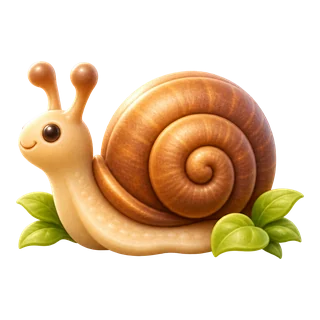
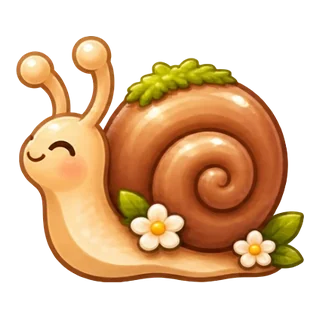
Nouveaux papillon, escargot, pièce, étoile et goutte (0.26.1)
Claude-Session: https://claude.ai/code/session_018D5HKJWKwN88xpAGuhHMQJ

diff --git a/index.html b/index.html
@@ -6,13 +6,13 @@
   <title>Potager idle</title>
   <meta name="description" content="Un petit jeu idle de potager : plante, arrose, récolte, cuisine et découvre des variétés hybrides.">
   <meta name="theme-color" content="#f2f9e6" id="theme-color">
-  <link rel="manifest" href="manifest.webmanifest?v=119">
+  <link rel="manifest" href="manifest.webmanifest?v=120">
   <link rel="icon" href="icons/favicon-32.png" sizes="32x32" type="image/png">
   <link rel="icon" href="icons/favicon-64.png" sizes="64x64" type="image/png">
   <link rel="icon" href="icons/icon-192.png" sizes="192x192" type="image/png">
   <link rel="preload" href="fonts/nunito-latin.woff2" as="font" type="font/woff2" crossorigin>
   <link rel="preload" href="fonts/fredoka-latin.woff2" as="font" type="font/woff2" crossorigin>
-  <link rel="stylesheet" href="css/style.css?v=119">
+  <link rel="stylesheet" href="css/style.css?v=120">
 </head>
 <body>
 <div id="app">
@@ -41,10 +41,10 @@
 <div id="fx"></div>
 <div id="toasts" aria-live="polite"></div>
 
-<script src="js/data.js?v=119"></script>
-<script src="assets/img/manifest.js?v=119"></script>
-<script src="js/art.js?v=119"></script>
-<script src="js/achievements.js?v=119"></script>
-<script src="js/game.js?v=119"></script>
+<script src="js/data.js?v=120"></script>
+<script src="assets/img/manifest.js?v=120"></script>
+<script src="js/art.js?v=120"></script>
+<script src="js/achievements.js?v=120"></script>
+<script src="js/game.js?v=120"></script>
 </body>
 </html>

diff --git a/js/art.js b/js/art.js
@@ -288,8 +288,8 @@ function avatar(v) {
   return `<svg viewBox="0 0 46 46" aria-hidden="true"><circle cx="23" cy="23" r="23" fill="${v.color}" opacity=".22"/><circle cx="12" cy="13" r="6" fill="${vol(v.ear)}"/><circle cx="34" cy="13" r="6" fill="${vol(v.ear)}"/><circle cx="23" cy="25" r="15" fill="${vol(v.color)}"/><ellipse cx="23" cy="31" rx="7" ry="5" fill="#fff" opacity=".55"/><circle cx="23" cy="29" r="2.2" fill="${INK}"/>${face(23, 23, 3.2)}</svg>`;
 }
 
-const DROP = `<svg viewBox="0 0 16 16"><path d="M8 1.5C6 5 3.5 7.5 3.5 10a4.5 4.5 0 0 0 9 0C12.5 7.5 10 5 8 1.5z" fill="${vol("#3f9bdc")}"/><ellipse cx="6.4" cy="9.6" rx="1" ry="1.6" fill="#fff" opacity=".6"/></svg>`;
-const STAR = `<svg viewBox="0 0 16 16"><path d="M8 1.5l1.9 4.1 4.5.5-3.4 3 1 4.4L8 11.2 4 13.5l1-4.4-3.4-3 4.5-.5z" fill="${vol("#f4c03e")}"/></svg>`;
+const DROP = `<img class="ico-img" src="assets/img/ui-drop.webp" alt="">`;
+const STAR = `<img class="ico-img" src="assets/img/ui-star.webp" alt="">`;
 const WEED = `<g>${leaf(17, 61, -20, 15, 3, "#6e9a3a")}${leaf(21, 61, 8, 18, 3.2, "#5d8a30")}${leaf(25, 61, 30, 13, 2.8, "#7aa845")}` +
   `<ellipse cx="45" cy="56" rx="10" ry="4.5" fill="${vol("#d9bf94")}"/><circle cx="47" cy="50.5" r="6.5" fill="${vol("#b07a48")}"/>` +
   `<path d="M47 50.5m-3 0a3 3 0 1 0 3-3" stroke="#7d5230" stroke-width="1.3" fill="none"/><path d="M37 53l-3-5M39 52l-1-6" stroke="#c9a77a" stroke-width="1.5" stroke-linecap="round"/></g>`;

diff --git a/css/style.css b/css/style.css
@@ -638,3 +638,6 @@ button.herb:active { transform: scale(.97); }
 .ach-toast { display: flex; align-items: center; gap: 10px; }
 .ach-toast svg { width: 28px; height: 28px; color: #f4c03e; flex: none; }
 .ach-rew { display: block !important; line-height: 1.5; } .ach-rew .coin { margin-right: 2px; }
+/* Icônes illustrées : pièce, goutte, étoile */
+.coin { background: url("../assets/img/ui-coin.webp") center / contain no-repeat !important; box-shadow: none !important; border-radius: 0 !important; width: 1.2em; height: 1.2em; }
+.ico-img { width: 100%; height: 100%; object-fit: contain; display: block; }

diff --git a/js/game.js b/js/game.js
@@ -1,7 +1,7 @@
 "use strict";
 /* Numéro de version affiché dans les Paramètres.
    À chaque mise à jour : changer APP_VERSION, le ?v= dans index.html et VERSION dans sw.js. */
-const APP_VERSION = "0.26.0";
+const APP_VERSION = "0.26.1";
 /* ---------------- Helpers ---------------- */
 const $ = s => document.querySelector(s);
 const now = () => Date.now();

diff --git a/sw.js b/sw.js
@@ -1,6 +1,6 @@
 /* Service worker de Potager idle : rend le jeu jouable hors-ligne.
    À chaque mise à jour du jeu, augmente VERSION pour que les téléphones téléchargent la nouvelle version. */
-const VERSION = "potager-v119";
+const VERSION = "potager-v120";
 const FILES = [
   "./",
   "index.html",
